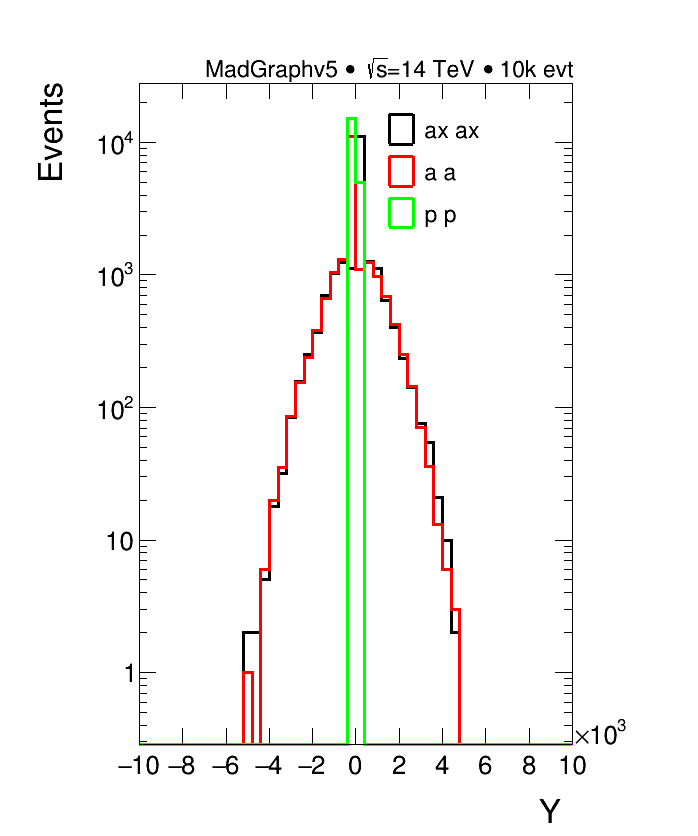
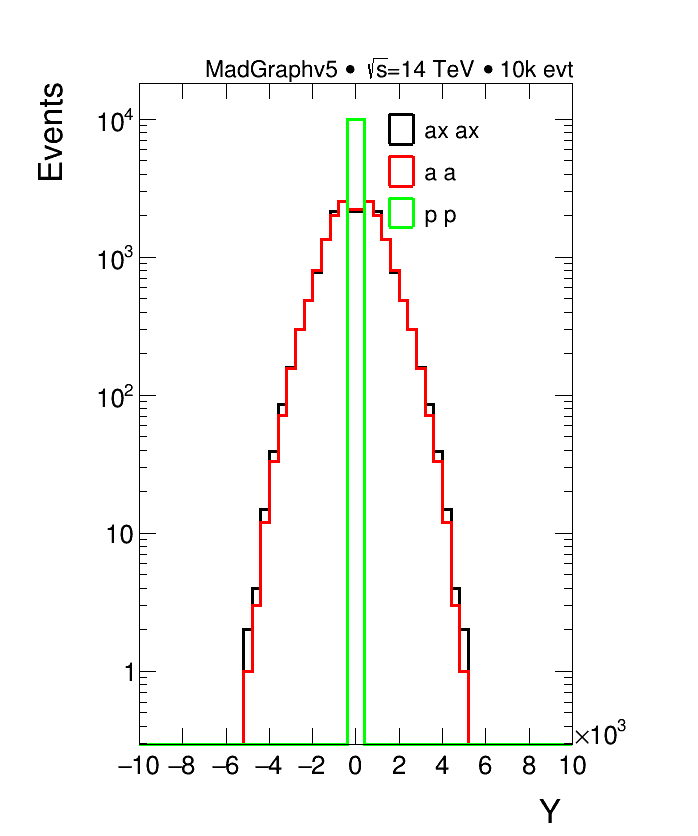
Atualização

diff --git a/photonflux/root_gen.py b/photonflux/root_gen.py
@@ -209,6 +209,7 @@ for i in range(len(FILES)):
             en = float(coll[9]);
             dp.SetPxPyPzE(px,py,pz,en);
             first = True
+            #print(f'First photon; first = {first}')
         elif coll[0] == '22' and coll[1] == '1' and first:
             dm = TLorentzVector();
             px = float(coll[6]);
@@ -216,7 +217,8 @@ for i in range(len(FILES)):
             pz = float(coll[8]);
             en = float(coll[9]);
             dm.SetPxPyPzE(px,py,pz,en);
-            first == False
+            first = False
+            #print(f'Second photon; first = {first}')
         elif coll[0] == '13' and coll[1] == '1':
             dmu = TLorentzVector();
             px = float(coll[6]);
@@ -254,6 +256,7 @@ for i in range(len(FILES)):
             dpm.SetPxPyPzE(px,py,pz,en);
         # CLOSE EVENT AND FILL HISTOGRAMS:
         elif coll[0] == "</event>":
+            #print(f'Closing event; first {first}')
             # KINEMATICS OF DECAY PRODUCTS:
             if ( cuts and INNER                 # TRY EACH ONE
                 and (dmu+damu).M() >= INVMCUTLOWER
@@ -397,7 +400,7 @@ for i in range(len(FILES)):
                 phoivm[i].Fill((dp+dm).M())
                 phopsrap2[i].Fill((dp+dm).Eta())
                 phopsrap1[i].Fill(dp.Eta())
-                phopsrap1[i].Fill(dm.Eta())               
+                #phopsrap1[i].Fill(dm.Eta())               
                 phoY[i].Fill(dp.Y())
                 phoY[i].Fill(dm.Y())
                 #-------------------------Medidas do monopolo
